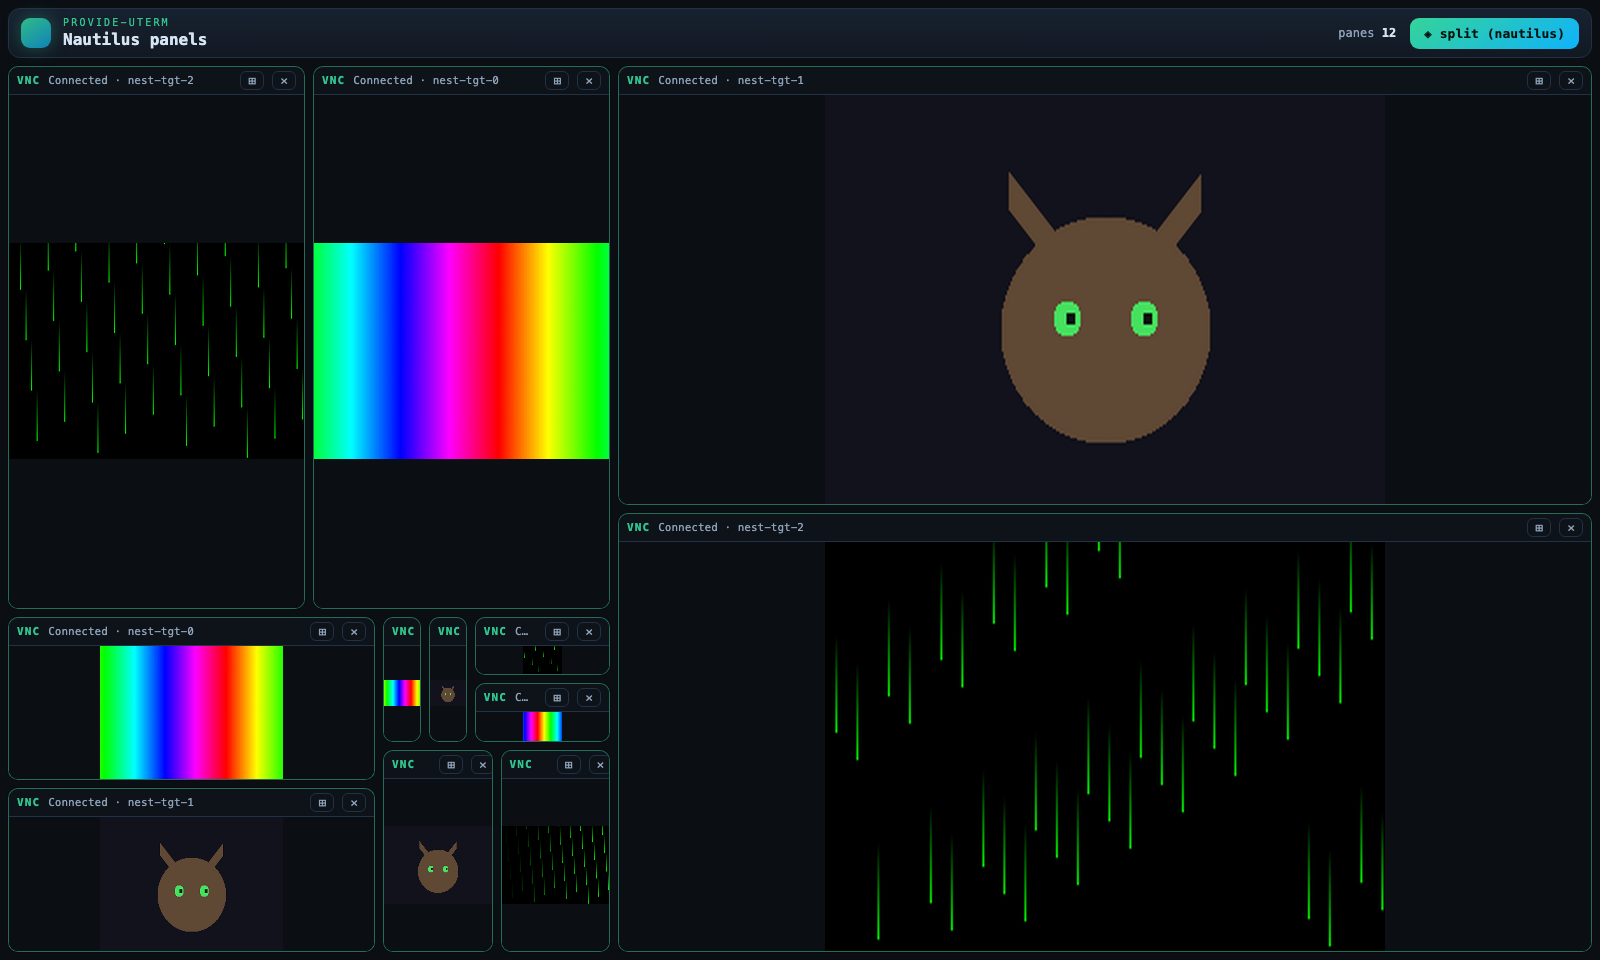
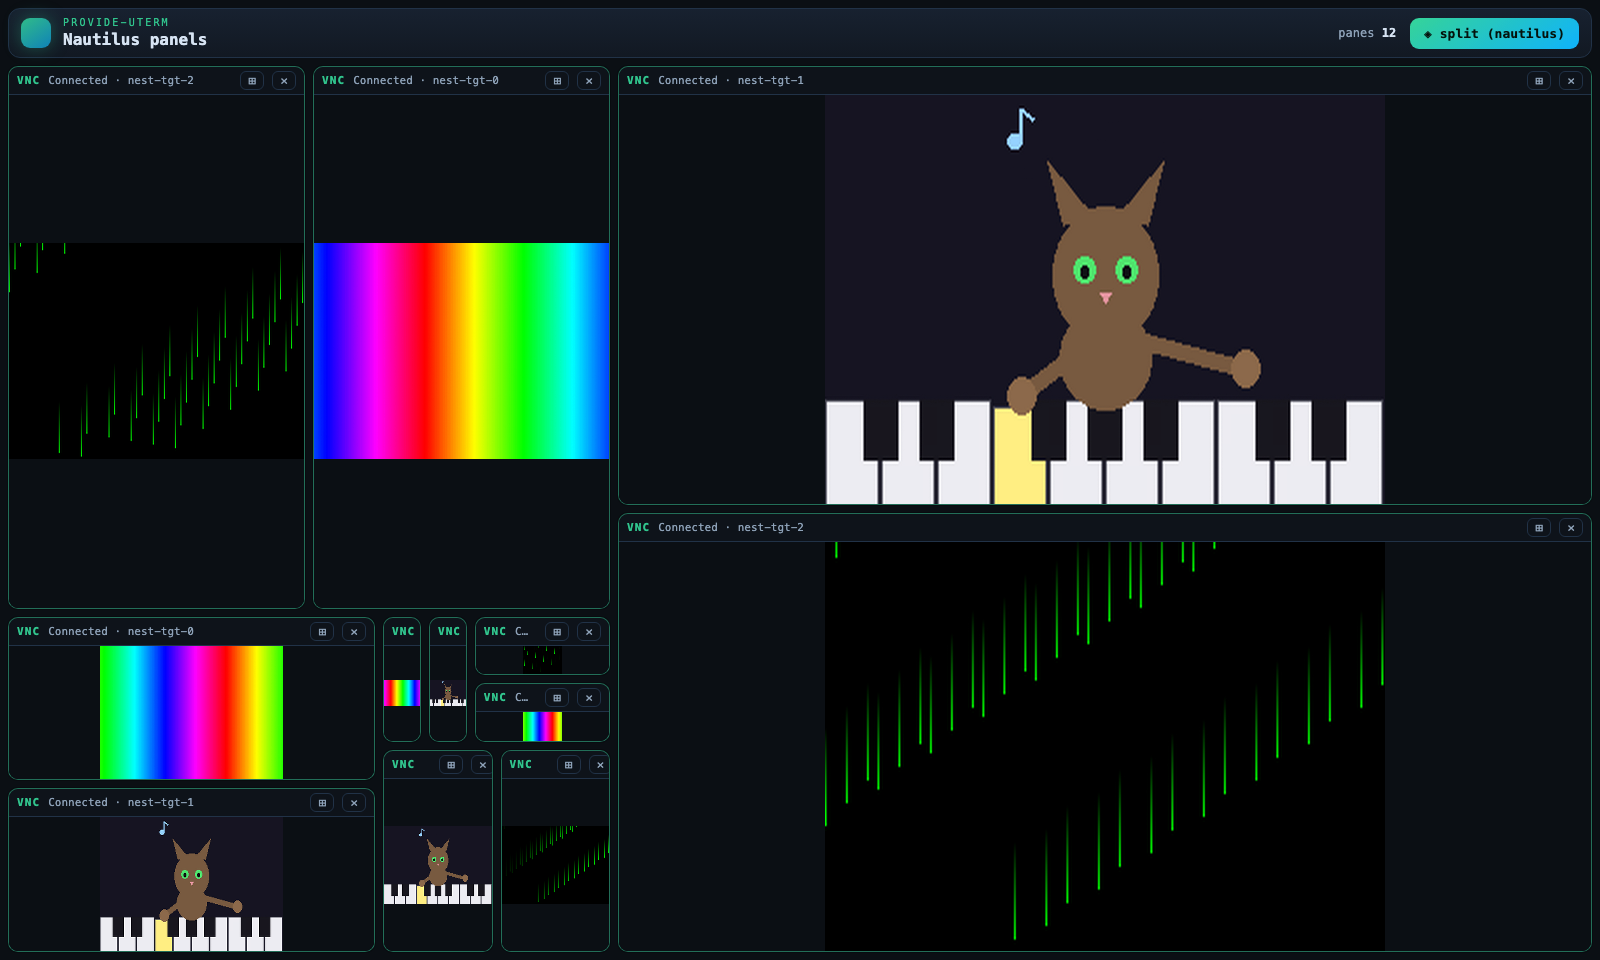
feat(demo): the cat now plays piano in the nautilus VNC scene
Replace the bobbing cat face with a cat seated at a piano — paws alternate
pressing keys (which light up and dip), head bobs and blinks, eighth-notes
drift up. Drawn with ImageDraw for crisp shapes that mpv plays smoothly.

diff --git a/scripts/record_uterm_vnc_panels_demo.py b/scripts/record_uterm_vnc_panels_demo.py
@@ -88,48 +88,69 @@ def _rainbow_frames() -> list[Any]:
     return out
 
 
-def _cat_frames() -> list[Any]:
-    """Cat face with green eyes: pupils slide side to side, with a mid-loop blink.
-
-    Every frame differs (moving pupils) so PIL keeps all 16 — smooth motion, not
-    a collapsed near-static GIF.
+def _cat_piano_frames() -> list[Any]:
+    """A cat playing a piano: paws bounce on the keys (which light up), the head
+    bobs and blinks, and eighth-notes drift up. Drawn with ImageDraw for crisp
+    shapes; every frame differs so mpv plays it smoothly.
     """
     import math
 
-    from PIL import Image
+    from PIL import Image, ImageDraw
 
     w, h, n = _SCENE_W, _SCENE_H, _SCENE_FRAMES
-    cx, base_cy = w // 2, h // 2 + 8
+    fur, fur_lit = (120, 90, 64), (140, 105, 74)
+    n_keys = 10
+    kw = w / n_keys
+    kb_top = h - 46
     out: list[Any] = []
     for f in range(n):
-        img = Image.new("RGB", (w, h), (18, 18, 28))
-        px = img.load()
-        cy = base_cy + round(7 * math.sin(2 * math.pi * f / n))  # whole head bobs
-        for x in range(w):
-            for y in range(h):
-                if (x - cx) ** 2 + ((y - cy) * 1.2) ** 2 < 60**2:
-                    px[x, y] = (95, 72, 52)
-        for x in range(cx - 55, cx - 15):
-            for y in range(cy - 70, cy - 30):
-                if (x - (cx - 55)) < (y - (cy - 70)) < (x - (cx - 55)) + 18:
-                    px[x, y] = (95, 72, 52)
-        for x in range(cx + 15, cx + 55):
-            for y in range(cy - 70, cy - 30):
-                if ((cx + 55) - x) < (y - (cy - 70)) < ((cx + 55) - x) + 18:
-                    px[x, y] = (95, 72, 52)
-        blink = f % n in (7, 8)  # eyes shut mid-loop
-        pupil_dx = round(3 * math.sin(2 * math.pi * f / n))  # pupils track left↔right
-        for ex in (cx - 22, cx + 22):
-            for x in range(ex - 8, ex + 8):
-                for y in range(cy - 15, cy + 5):
-                    if blink:
-                        if abs(y - (cy - 5)) <= 1 and abs(x - ex) < 7:
-                            px[x, y] = (70, 225, 95)
-                        continue
-                    if (x - ex) ** 2 + (y - (cy - 5)) ** 2 < 8**2:
-                        px[x, y] = (70, 225, 95)
-                    if (x - (ex + pupil_dx)) ** 2 + (y - (cy - 5)) ** 2 < 3**2:
-                        px[x, y] = (12, 20, 14)  # dark pupil
+        img = Image.new("RGB", (w, h), (22, 20, 34))
+        d = ImageDraw.Draw(img)
+        # Hands alternate; each paw hovers over a key that shifts slightly.
+        left_down = (f // 2) % 2 == 0
+        left_key, right_key = 2 + (f // 4) % 2, 6 + (f // 4) % 2
+        # White keys (pressed one lights up + dips).
+        for i in range(n_keys):
+            x0 = i * kw
+            pressed = (i == left_key and left_down) or (i == right_key and not left_down)
+            col = (255, 238, 130) if pressed else (236, 236, 242)
+            d.rectangle([x0, kb_top + (3 if pressed else 0), x0 + kw - 2, h], fill=col, outline=(70, 70, 82))
+        # Black keys (standard sharps pattern, skipping the E-F / B-C gaps).
+        for i in range(n_keys - 1):
+            if i % 7 in (0, 1, 3, 4, 5):
+                bx = (i + 1) * kw - kw * 0.3
+                d.rectangle([bx, kb_top, bx + kw * 0.6, kb_top + 26], fill=(24, 22, 30))
+        # Cat, seated above the keys, bobbing to the beat.
+        cx = w // 2
+        bob = round(3 * math.sin(2 * math.pi * f / n))
+        hy, hr = kb_top - 58 + bob, 30
+        d.ellipse([cx - 26, hy + hr - 16, cx + 26, kb_top + 4], fill=fur)  # body
+        d.polygon([(cx - hr + 6, hy - hr + 8), (cx - hr - 3, hy - hr - 20), (cx - 7, hy - hr + 4)], fill=fur)  # ear
+        d.polygon([(cx + hr - 6, hy - hr + 8), (cx + hr + 3, hy - hr - 20), (cx + 7, hy - hr + 4)], fill=fur)  # ear
+        d.ellipse([cx - hr, hy - hr, cx + hr, hy + hr], fill=fur)  # head
+        blink = f % n == 7
+        for ex in (cx - 12, cx + 12):
+            if blink:
+                d.line([ex - 6, hy - 3, ex + 6, hy - 3], fill=(70, 210, 100), width=2)
+            else:
+                d.ellipse([ex - 6, hy - 8, ex + 6, hy + 3], fill=(80, 230, 110))
+                d.ellipse([ex - 2, hy - 4, ex + 2, hy + 1], fill=(15, 15, 20))
+        d.polygon([(cx - 3, hy + 8), (cx + 3, hy + 8), (cx, hy + 12)], fill=(230, 150, 160))  # nose
+        # Arms + paws reaching to the two keys (the pressing paw dips down).
+        for key, down in ((left_key, left_down), (right_key, not left_down)):
+            px = key * kw + kw / 2
+            py = kb_top - 2 - (0 if down else 12)
+            d.line([cx, hy + hr - 6, px, py], fill=fur, width=8)
+            d.ellipse([px - 8, py - 8, px + 8, py + 8], fill=fur_lit)
+        # Eighth-notes drifting up and looping.
+        for k in range(3):
+            phase = (f + k * 5) % n
+            nx = cx + (k - 1) * 46 + round(6 * math.sin(phase))
+            ny = hy - 34 - phase * 5
+            note = (150, 210, 255)
+            d.ellipse([nx - 4, ny - 3, nx + 4, ny + 3], fill=note)
+            d.line([nx + 4, ny, nx + 4, ny - 14], fill=note, width=2)
+            d.line([nx + 4, ny - 14, nx + 10, ny - 10], fill=note, width=2)
         out.append(img)
     return out
 
@@ -159,7 +180,7 @@ def _generate_scenes(out_dir: Path) -> None:
     """Write three distinct *animated* GIF scenes mpv loops in each lab."""
     out_dir.mkdir(parents=True, exist_ok=True)
     _save_gif(_rainbow_frames(), out_dir / "rainbow.gif")
-    _save_gif(_cat_frames(), out_dir / "cat.gif")
+    _save_gif(_cat_piano_frames(), out_dir / "cat.gif")
     _save_gif(_matrix_frames(), out_dir / "matrix.gif")
 
 
